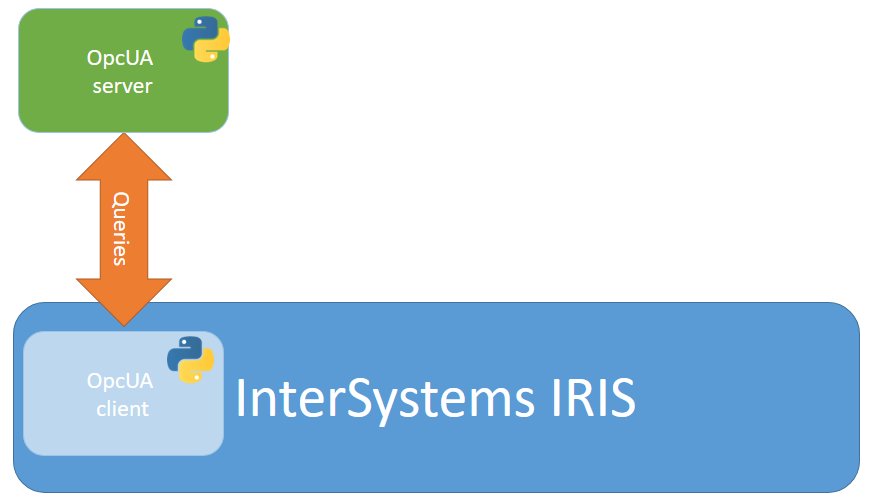
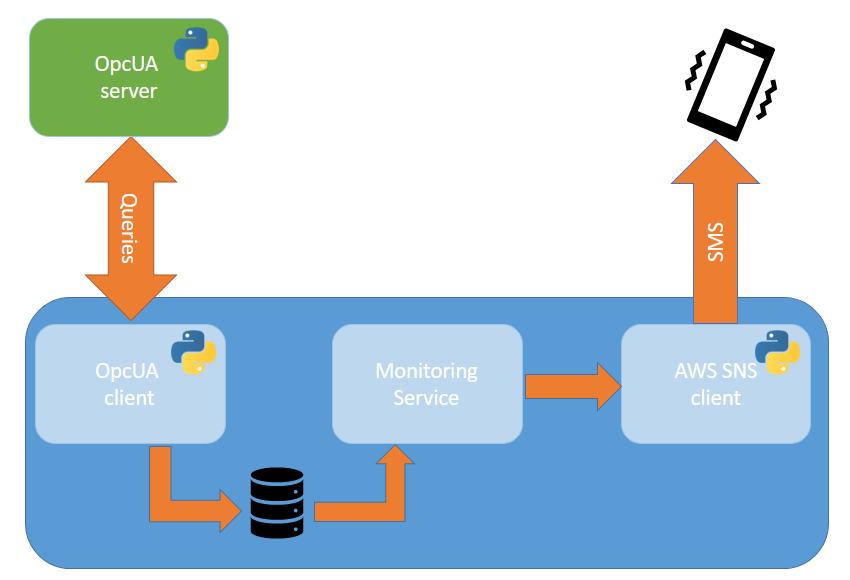
Monitoring docs

diff --git a/README.md b/README.md
@@ -17,6 +17,7 @@ This demo starts an OpcUA server (100 nodes) and queries them using InterSystems
 
 1. `dc_opcua.Node` table contains auto-discovered nodes.
 2. `dc_opcua.Value` table contains node values.
+2. `dc_opcua.Threshold` table contains values thresholds.
 
 # SMS
 
@@ -30,6 +31,10 @@ Send SMS via AWS SNS. AWS SMS is a paid service. [Pricing](https://aws.amazon.co
 6. Test `SMS` Business Operation by sending a `Ens.StringContainer` request to it.
 
 Tip! To prevent accidental commit of a modified `.env` file execute: `git update-index --assume-unchanged .env`
+
+# Monitoring
+
+After enabling SMS enable `MonitoringService` to check values against thresholds and send SMS if the thresholds are exceeded.
 
 
 # Customization
